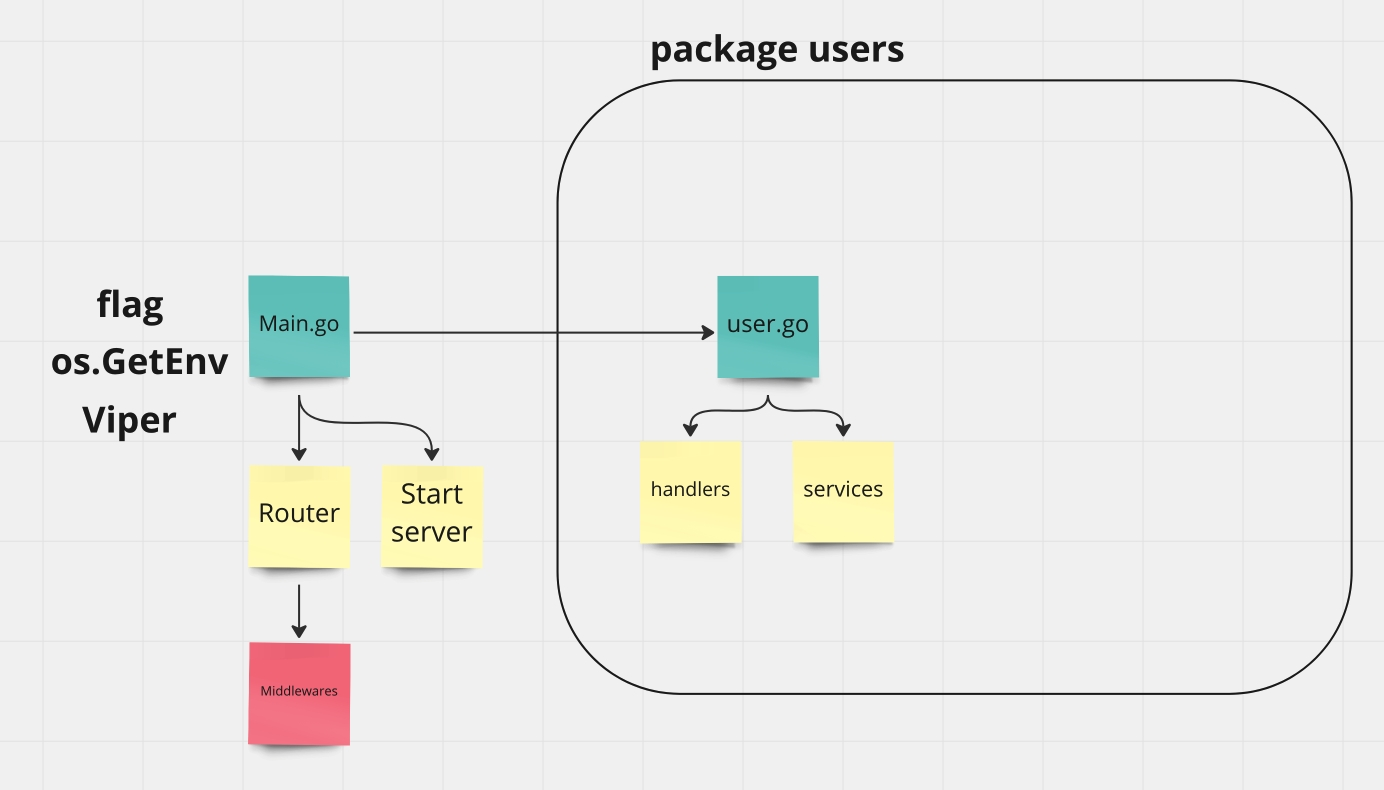
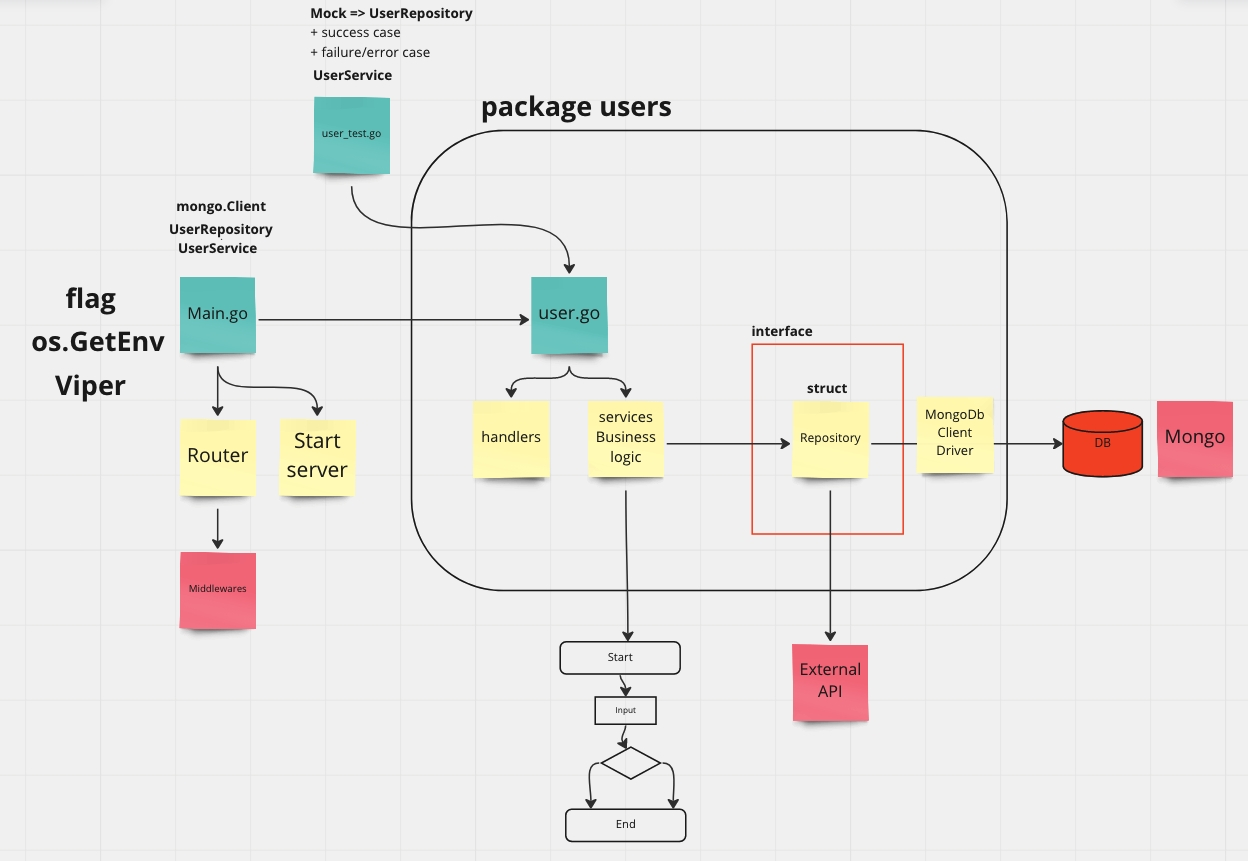
add diagram, readme

diff --git a/README.md b/README.md
@@ -2,8 +2,6 @@
 
 https://miro.com/app/board/uXjVPOrljZY=/
 
-https://miro.com/app/board/uXjVPOrljZY=/
-
 https://github.com/up1/workshop-go-20221011
 
 https://github.com/up1/course-go-2022
